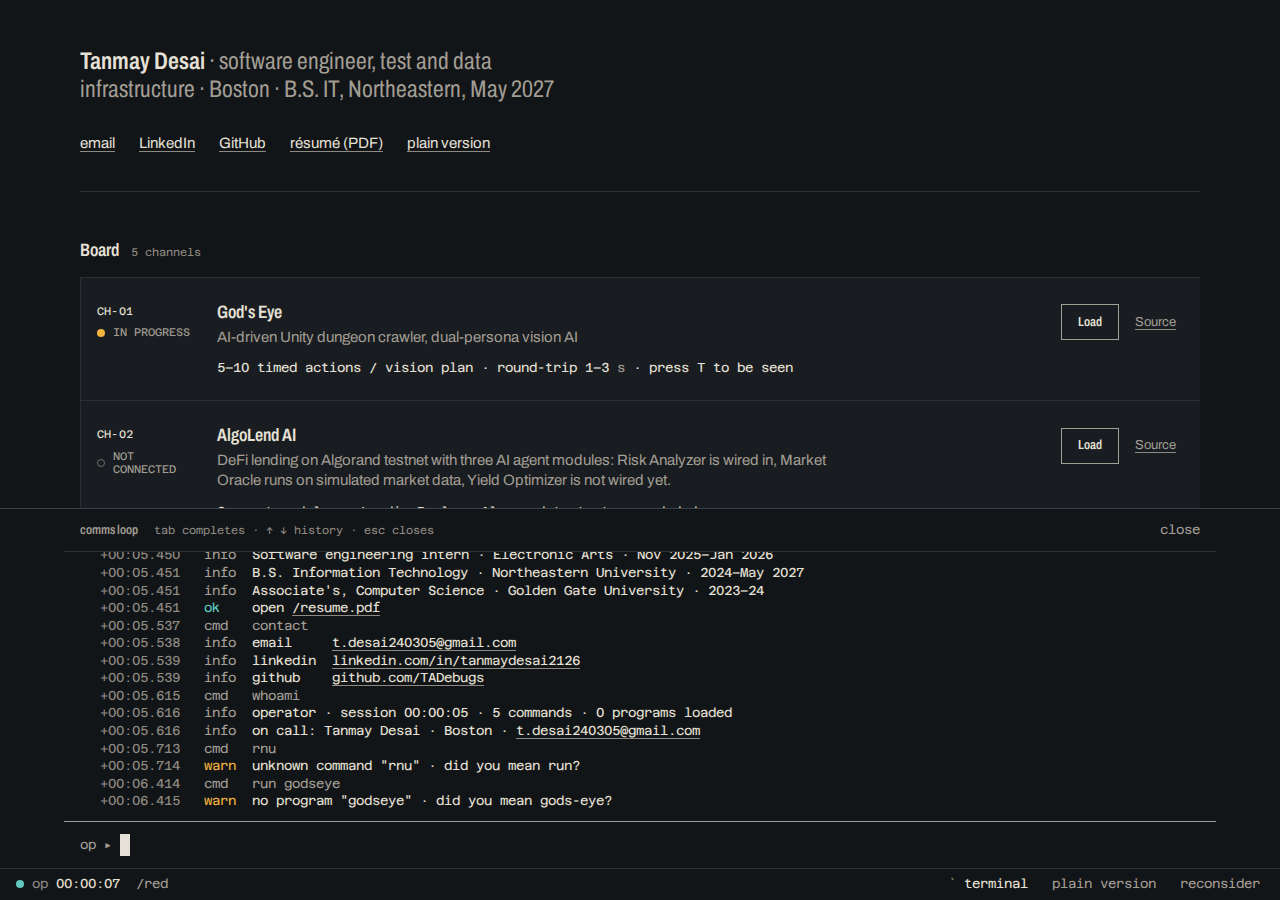
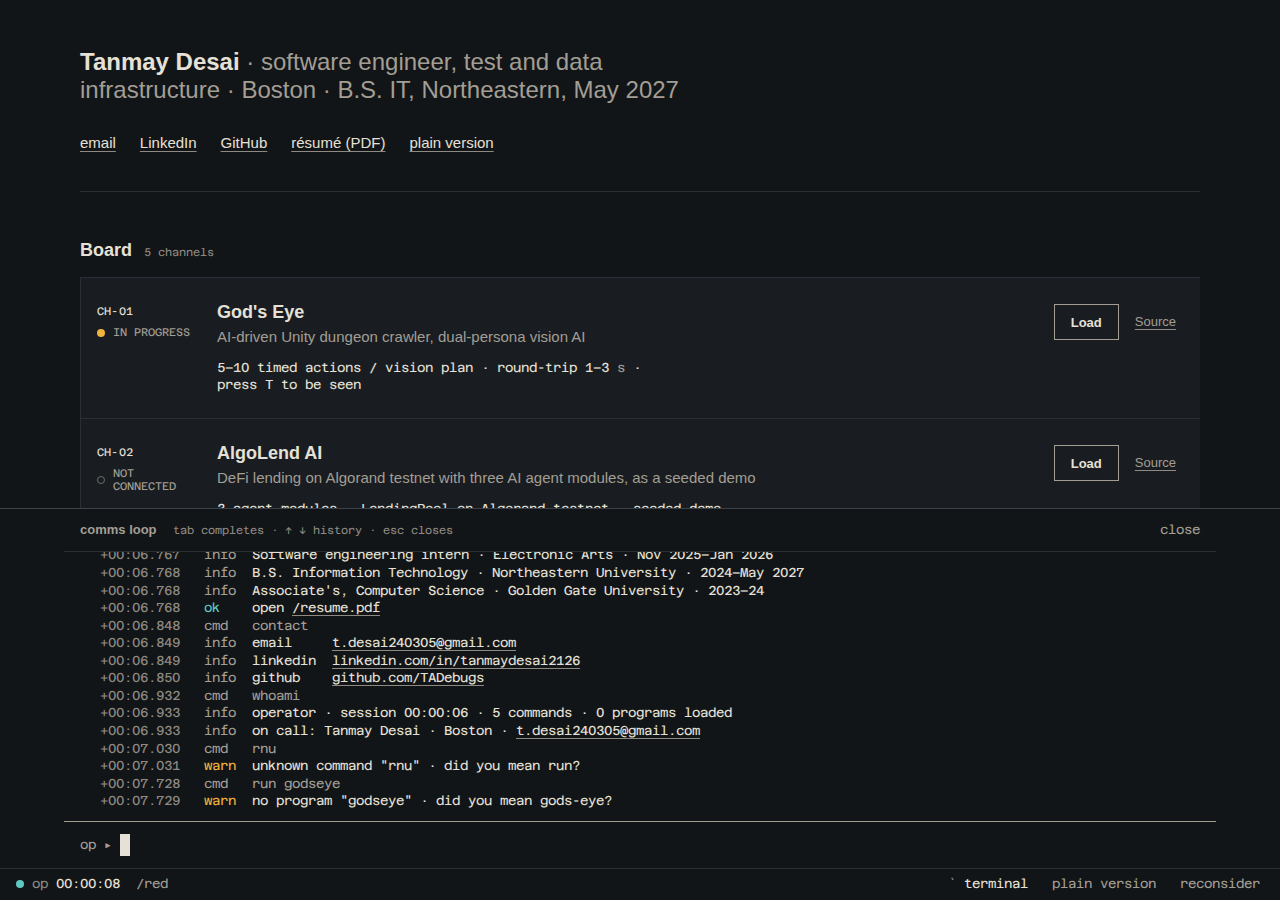
construct: switch to real /shared/motion (PR #5), delete stub, trace rail spacing
Claude-Session: https://claude.ai/code/session_01GKK88ZJrEzVc6W5F9hQVyW

diff --git a/construct/shell.js b/construct/shell.js
@@ -1,7 +1,7 @@
 // construct/shell.js: the Shell API (DESIGN.md §9). Status line (§4.4), comms loop
 // terminal (§4.5), déjà vu cat log side (§4.6). Contract: mountShell / Shell#log /
 // logTrace / register / open / close. Extra exports (projects, statusOf) are for /red.
-import { loadProgram, bell, sessionClock, formatClock, formatMs } from '/construct/_stub/motion.js';
+import { loadProgram, bell, sessionClock, formatClock, formatMs } from '/shared/motion/index.js';
 
 const store = (area) => ({
   get(k, d) { try { const v = area().getItem(k); return v == null ? d : JSON.parse(v); } catch { return d; } },

diff --git a/red/index.html b/red/index.html
@@ -9,7 +9,7 @@
 <link rel="preconnect" href="https://fonts.gstatic.com" crossorigin>
 <link rel="stylesheet" href="https://fonts.googleapis.com/css2?family=Archivo:wdth,wght@75..100,400..600&family=Azeret+Mono:wght@400;500&display=swap">
 <link rel="stylesheet" href="/shared/tokens.css">
-<link rel="stylesheet" href="/construct/_stub/motion.css">
+<link rel="stylesheet" href="/shared/motion/motion.css">
 <link rel="stylesheet" href="/construct/shell.css">
 <link rel="stylesheet" href="/red/board.css">
 <link rel="modulepreload" href="/construct/shell.js">

diff --git a/red/board.js b/red/board.js
@@ -1,6 +1,6 @@
 // /red: the board (DESIGN.md §4.1–4.2, §4.6). Channels come from shared/projects.json at runtime.
 import { mountShell, projects, statusOf } from '/construct/shell.js';
-import { loadProgram, lampTest } from '/construct/_stub/motion.js';
+import { loadProgram, lampTest } from '/shared/motion/index.js';
 
 const shell = mountShell({ channel: null });
 const board = document.getElementById('board');

diff --git a/red/board.css b/red/board.css
@@ -126,3 +126,4 @@ ul, ol { padding: 0; list-style: none; }
   body { background: #fff; color: #111; }
   .btn, .src, .rail { display: none; }
 }
+.rail:not(:empty) { margin-block-start: var(--s-3); }

diff --git a/.agents/handoff/construct.md b/.agents/handoff/construct.md
@@ -5,7 +5,6 @@ route: /red (v1 deleted). Shell: /construct/shell.js + /construct/shell.css
 files
 - red/index.html, red/board.css, red/board.js: on-call plate (role wording PLACEHOLDER kept), board strips from shared/projects.json at runtime (CH-01…), logbook (experience, education, leadership) + loaded-modules table from shared/cv.md, lamp test on td.from-gate
 - construct/shell.js: Shell API §9, exact signatures: mountShell({channel}) → { log, logTrace, register, open, close }. Idempotent. Injects shell.css itself if the page didn't link it (DOM stays hidden until it loads). Extra exports for /red: projects(), statusOf(p)
-- construct/_stub/motion.js + motion.css: Motion API stand-ins (same exports/signatures; trace helpers per spec, motion minimal)
 
 terminal (§4.5): help, ls programs, run <slug>, cat resume, contact, whoami, clear, exit. Tab completion (commands + run slugs, ls/cat args; several matches → table + common prefix; Tab with empty input moves focus, so it never traps keyboard users). ↑/↓ history in sessionStorage (50). Levenshtein ≤2 suggestions for commands and slugs. Errors = warn + bell(). ARIA: region "Terminal", role=log aria-live=polite, input labelled "Terminal command". Esc / exit / close return focus to the opener. ` toggles (inside the input it closes). Log, command count and loaded programs persist per session across pages; after `run`, the terminal reopens on the program page. Block caret via mirror, blinks at --caret, steady while typing and under reduced motion. Ctrl+L clears, Ctrl+U kills the line.
 eggs (§4.6), exactly 2:
@@ -16,7 +15,7 @@ lamp mapping (§4.2): live → LIVE (or RECORDED for treatment recorded-demo); n
 readouts: DESIGN.md §5 verbatim (TRINITY per lead correction: "3 personalities · per-personality tools (config) · desktop app in progress"). No "sub-second", no AlgoLend numbers.
 Motion API v1.1 caller rule: Load buttons call loadProgram only on unmodified primary clicks; modified and middle clicks fall through to the href.
 
-swap to real motion when agent/motion merges: replace '/construct/_stub/motion.js' with '/shared/motion/index.js' in construct/shell.js and red/board.js, the /construct/_stub/motion.css link in red/index.html with /shared/motion/motion.css, then delete construct/_stub/.
+motion: real /shared/motion/index.js + motion.css (PR #5) since main merge; construct/_stub/ deleted. Load on the board renders the live trace in the strip's rail, then the leave fade and white beat.
 
 tested (python3 -m http.server + Playwright Chromium, 46 checks, all pass): keyboard-only (focus-visible 2px on every control), every command, tab completion, history, error + bell, both eggs (déjà vu with fake clock), reduced motion (lamp fault instead of invert, panel and caret static), 375px no h-scroll, Shell API on a program page (location, logTrace, register, rabbit link), every internal link 200 (/resume.pdf 404s locally; vercel rewrite → /resume), console clean.
 known: the sandbox proxy blocks fonts.gstatic.com, so the screenshots render Archivo/Azeret in fallback faces. Check the Vercel preview for real type. Wide `ls programs` rows scroll sideways inside the log at 375px.
